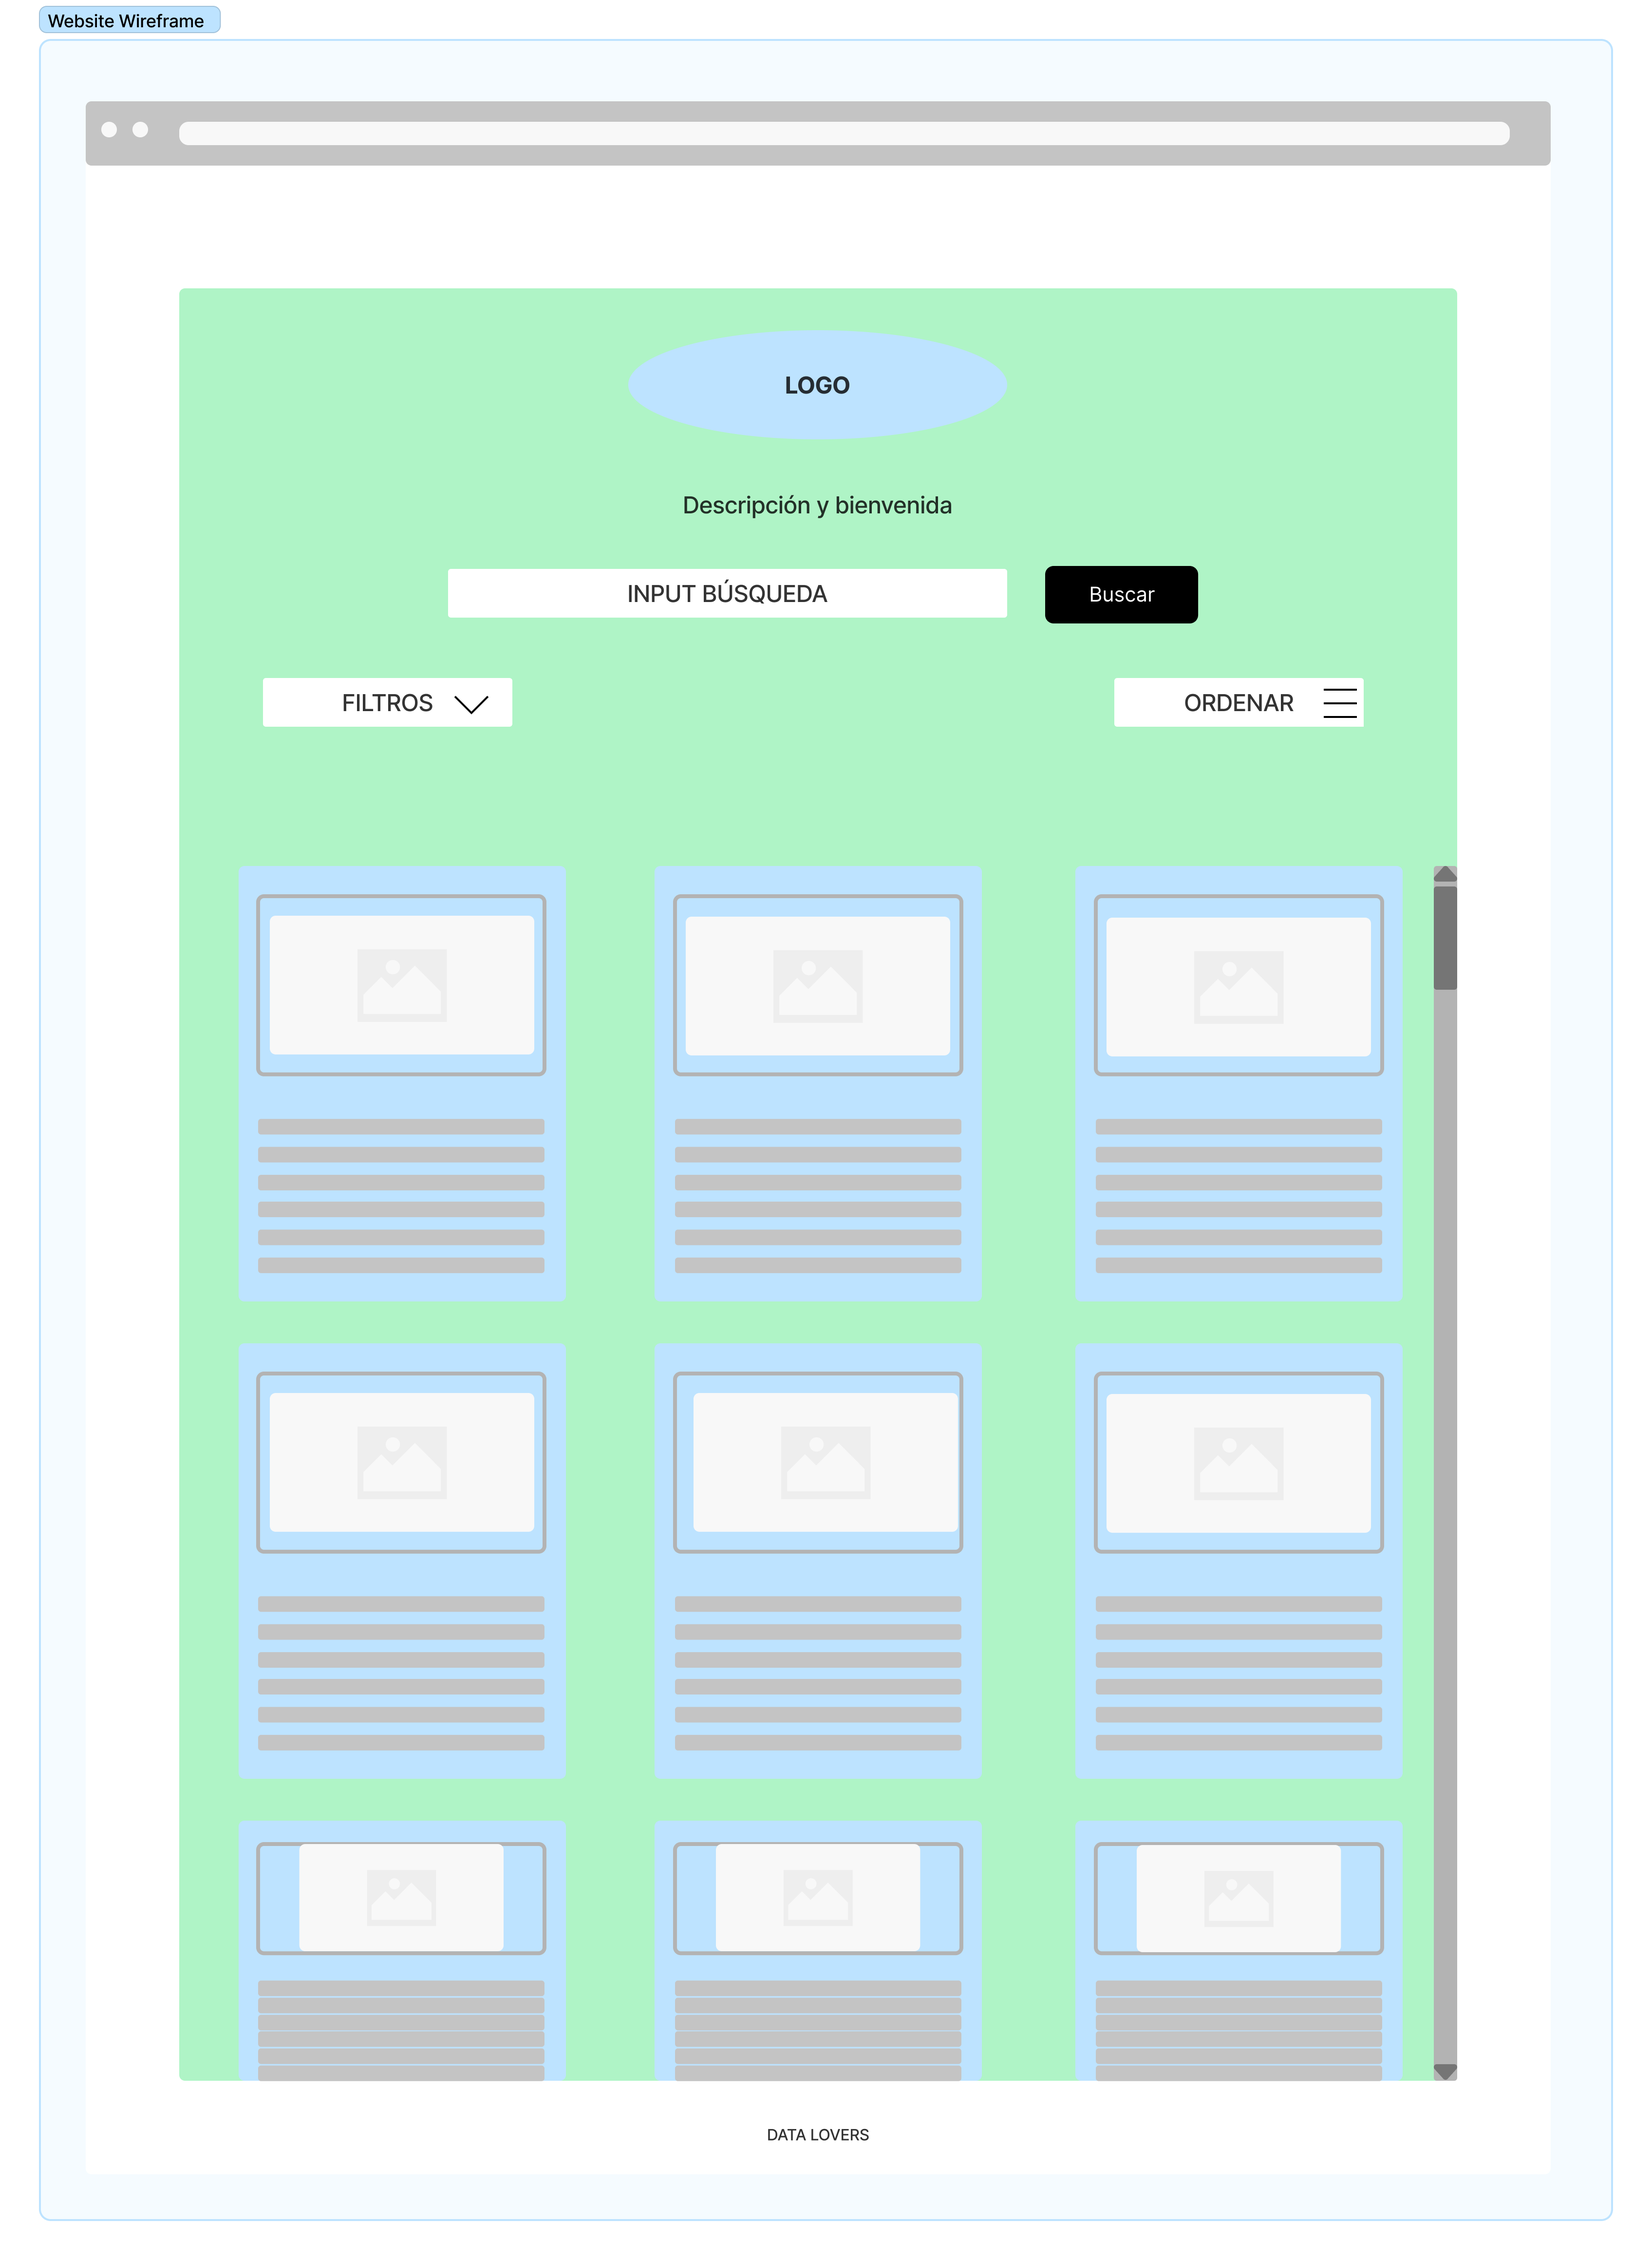
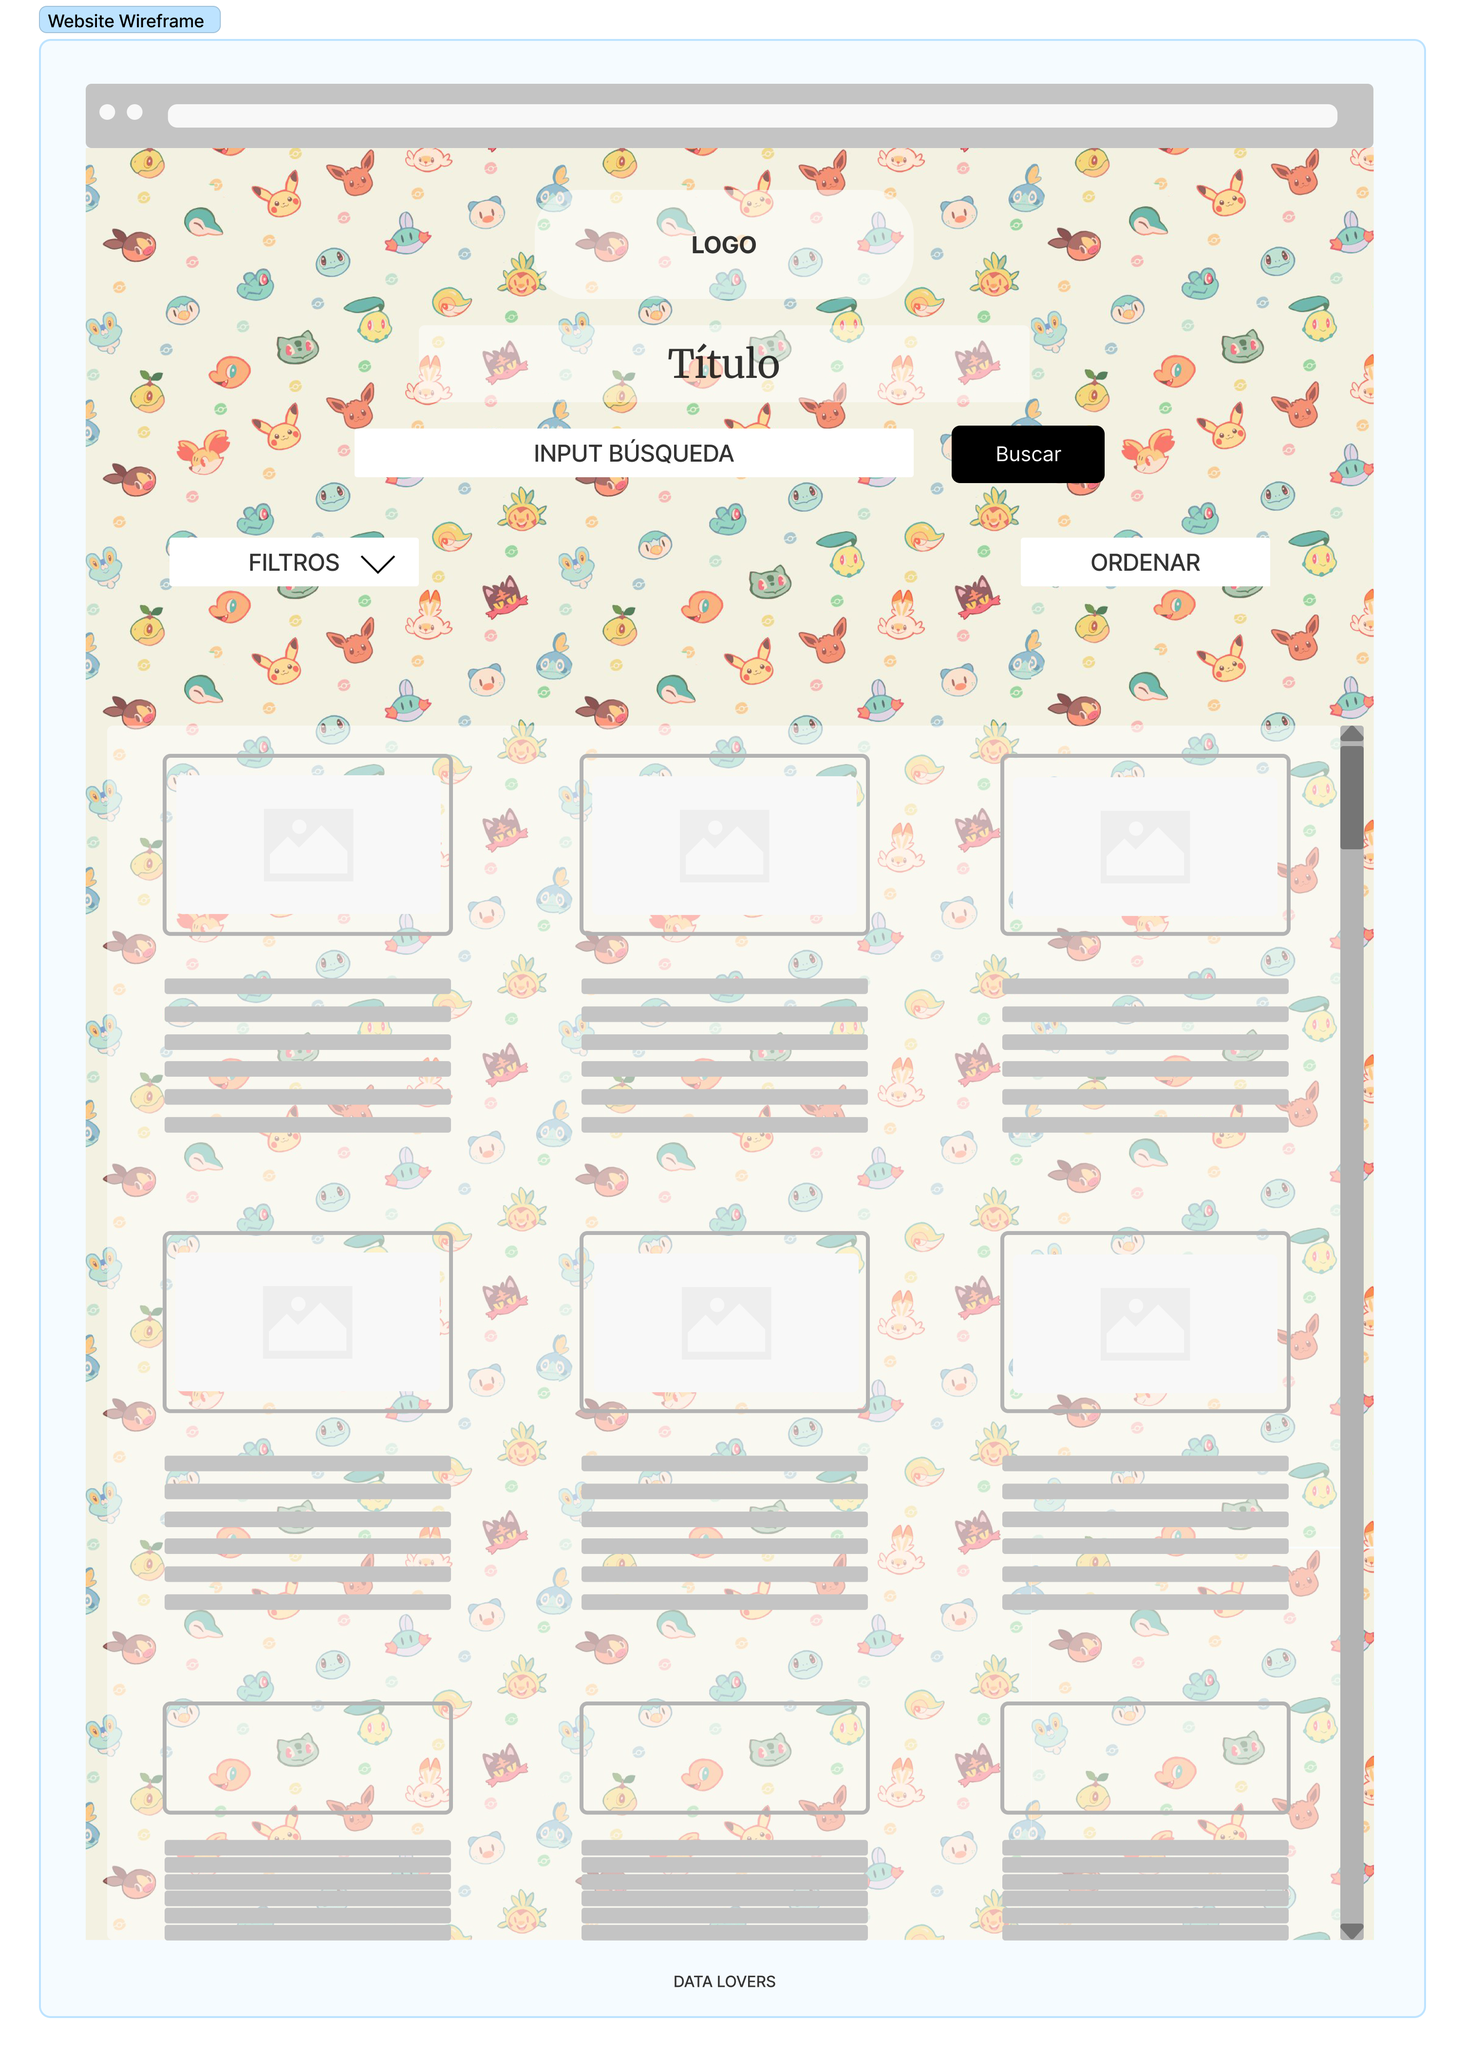
Updates

diff --git a/style.css b/style.css
@@ -1,45 +1,96 @@
 html {
-    height: 100%;
-    width: 100%;
-    font-family: Eczar, serif;
-    display: inline;
-  }
-  
-  body {
-    height: 80%;
-    width: 80%;
-    margin:auto;
-    padding: 50px; 
-    text-align: center;
-    background-image: url(img/poke-background-full.png);
-    background-size: 500px;
-    background-position: center;
-  }
-  h1 {
-    font-family: Oswald, serif;
-    color: rgb(0, 0, 0);
-    opacity: 1;
-    font-size: 40px;
-    font-style: bold;
-    text-shadow: 3px 3px 6px #6b6b6b;
-  }
-  h2 {
-    font-family: Eczar, serif;
-    color: rgb(0, 0, 0);
-    opacity: 1;
-    font-size: 20px;
-    font-style: bold;
-    text-shadow: 3px 3px 6px #6b6b6b;
-  }
-  #root {
-    margin: 30px;;
-    border-color: black;
-    border-style: double;
-    background-color: rgba(255, 255, 255, 0.5);
-  }
-  .section {
-    margin: 30px;;
-    border-color: black;
-    border-style: double;
-    background-color: rgba(255, 255, 255, 0.5);
-  }
+  height: 100%;
+  width: 100%;
+  font-family: Eczar, serif;
+}
+
+body {
+  height: 80%;
+  width: 80%;
+  margin: auto;
+  padding: 50px;
+  text-align: center;
+  background-image: url(img/poke-background-full.png);
+  background-size: 500px;
+  background-position: center;
+}
+
+h1 {
+  font-family: Oswald, serif;
+  color: rgb(0, 0, 0);
+  opacity: 1;
+  font-size: 40px;
+  font-style: bold;
+  text-shadow: 3px 3px 6px #6b6b6b;
+}
+
+h2 {
+  font-family: Eczar, serif;
+  color: rgb(0, 0, 0);
+  opacity: 1;
+  font-size: 20px;
+  font-style: bold;
+  text-shadow: 3px 3px 6px #6b6b6b;
+}
+
+#root {
+  margin: auto;
+  border-color: black;
+  border-style: double;
+  background-color: rgba(255, 255, 255, 0.5);
+
+}
+
+section {
+  margin: 30px;
+  display: flex;
+  align-content: center;
+  border-color: black;
+  border-style: double;
+  background-color: rgba(255, 255, 255, 0.5);
+}
+
+#searchform {
+  margin: auto;
+  max-width: 300px;
+}
+
+* {
+  box-sizing: border-box;
+}
+
+form.searchbar input[type=text] {
+  padding: 10px;
+  font-size: 17px;
+  border: 1px solid grey;
+  float: left;
+  width: 80%;
+  background: #f1f1f1;
+}
+
+form.searchbar button {
+  float: left;
+  width: 20%;
+  padding: 10px;
+  background: #757575;
+  color: white;
+  font-size: 17px;
+  border: 1px solid grey;
+  border-left: none;
+  cursor: pointer;
+}
+
+form.searchbar button:hover {
+  background: #424242;
+}
+
+form.searchbar:after {
+  content: "";
+  clear: both;
+  display: table;
+}
+
+#pokebox {
+  border-style: double;
+  border-color: black;
+}

diff --git a/index.html b/index.html
@@ -1,24 +1,33 @@
 <!DOCTYPE html>
 <html>
-  <head>
-    <meta charset="utf-8">
-    <title>Data Lovers</title>
-    <link rel="stylesheet" href="style.css" />
-    <link rel="stylesheet" href="https://fonts.googleapis.com/css?family=Eczar|Prompt|Oswald|Alegreya|Quicksand|Source Serif Pro">
-  </head>
-  <body>
-    <div id="root">
-      <main>
-        <h1 class="title">Pokedex Database</h1>
-        <h2>¡Bienvenid@ a la Pokedex Database!</h2>
-        <section class="section" id="bar">
-          <p>Search bar and button, filters and sort by options</p>
-        </section>
-        <section class="section" id="grid">
-          <p>search and filter results</p>
-        </section>
-      </main>
-    </div>
-    <script src="main.js" type="module"></script>
-  </body>
+
+<head>
+  <meta charset="utf-8">
+  <title>Data Lovers</title>
+  <link rel="stylesheet" href="style.css" />
+  <link rel="stylesheet"
+    href="https://fonts.googleapis.com/css?family=Eczar|Prompt|Oswald|Alegreya|Quicksand|Source Serif Pro">
+  <link rel="stylesheet" href="https://cdnjs.cloudflare.com/ajax/libs/font-awesome/4.7.0/css/font-awesome.min.css">
+</head>
+
+<body>
+  <div id="root">
+    <main>
+      <h1 class="title">Pokedex Database</h1>
+      <h2>¡Bienvenid@ a la Pokedex Database!</h2>
+      <section class="section" id="bar">
+        <form class="searchbar" id="searchform">
+          <input id="searchbar" type="text" placeholder="Busca a tu Pokemon" name="search">
+          <button id="searchbutton" type="submit"><i class="fa fa-search"></i></button>
+        </form><br>
+      </section>
+      <div class="flex-container" id="data-output">
+         <!--showing pokemon from .json file here-->
+      <br>
+      </div>
+    </main>
+  </div>
+  <script src="main.js" type="module"></script>
+</body>
+
 </html>

diff --git a/main.js b/main.js
@@ -1,6 +1,24 @@
-import { example } from './data.js';
-// import data from './data/pokemon/pokemon.js';
-import data from './data/pokemon/pokemon.js';
-// import data from './data/pokemon/pokemon.js';
-
-console.log(example, data);
+fetch("./data/pokemon/pokemon.json")
+  .then(function (response) {
+    return response.json();
+  })
+  .then(function (pokemon) {
+    for (var i = 0; i < pokemon.pokemon.length; i++) {
+      var src =
+        "https://www.serebii.net/pokemongo/pokemon/" +
+        pokemon.pokemon[i].num +
+        ".png";
+      var img = document.createElement("img");
+      img.src = src;
+      document.getElementById("data-output").innerHTML += 
+          "<br />" + pokemon.pokemon[i].num + "<br />" + pokemon.pokemon[i].name
+          + "<br />" + pokemon.pokemon[i].generation.num + "<br />" +
+          pokemon.pokemon[i].generation.name + "<br />"
+          ;
+        ;
+      document.body.appendChild(img);
+    }
+  })
+  .catch(function (err) {
+    console.log(err);
+  });
